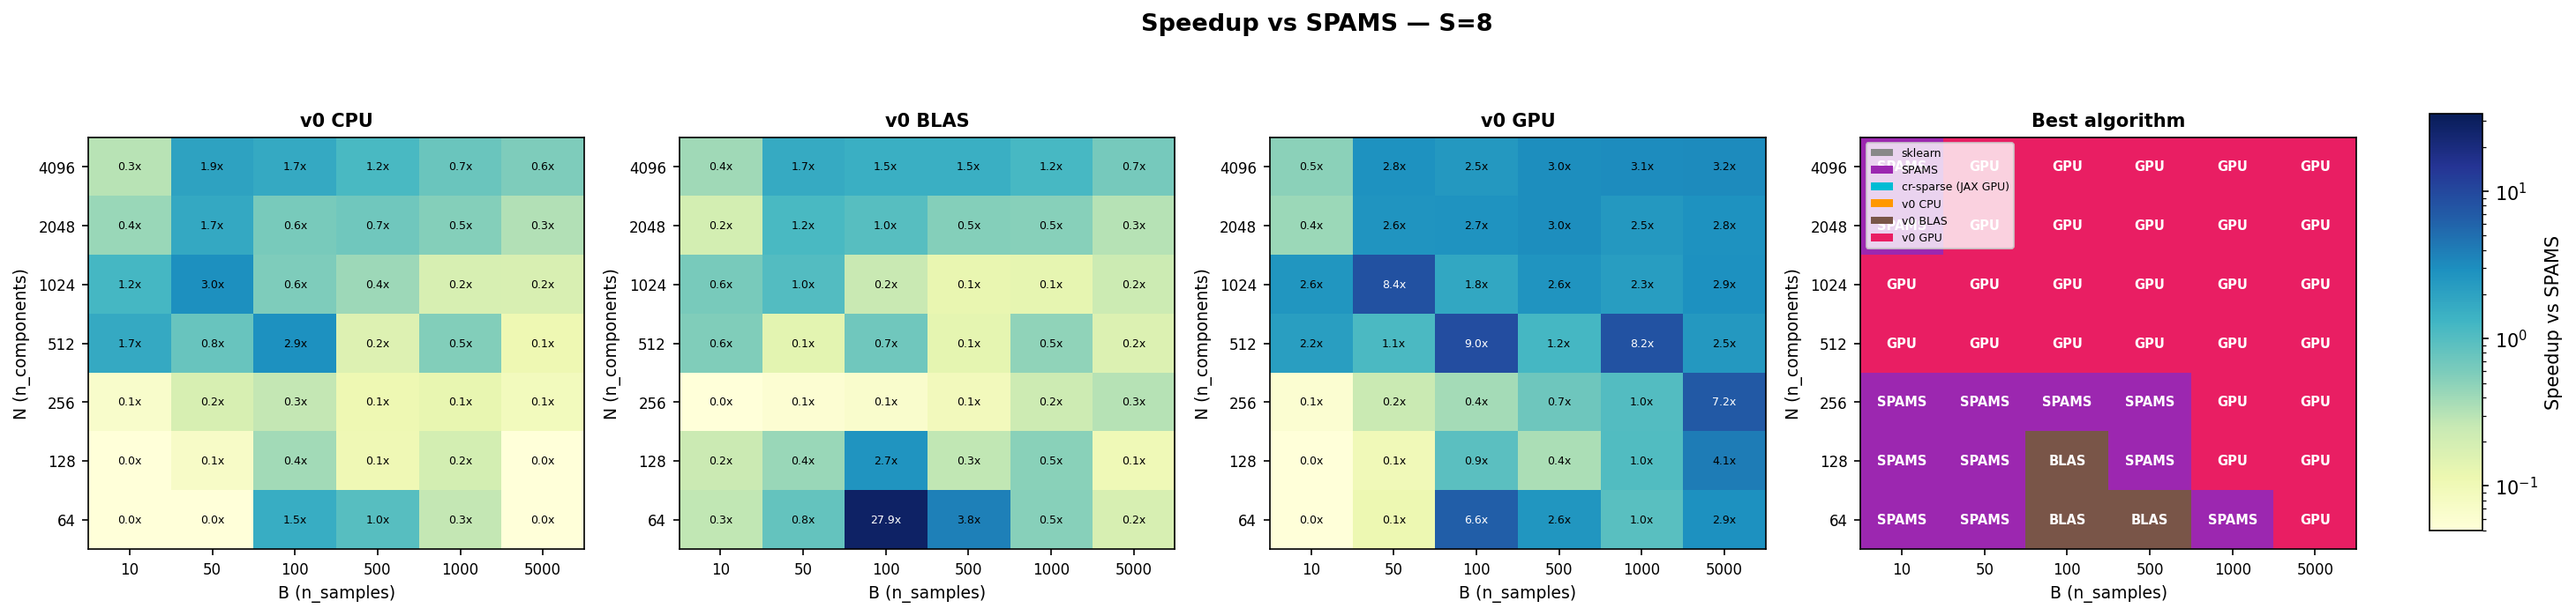
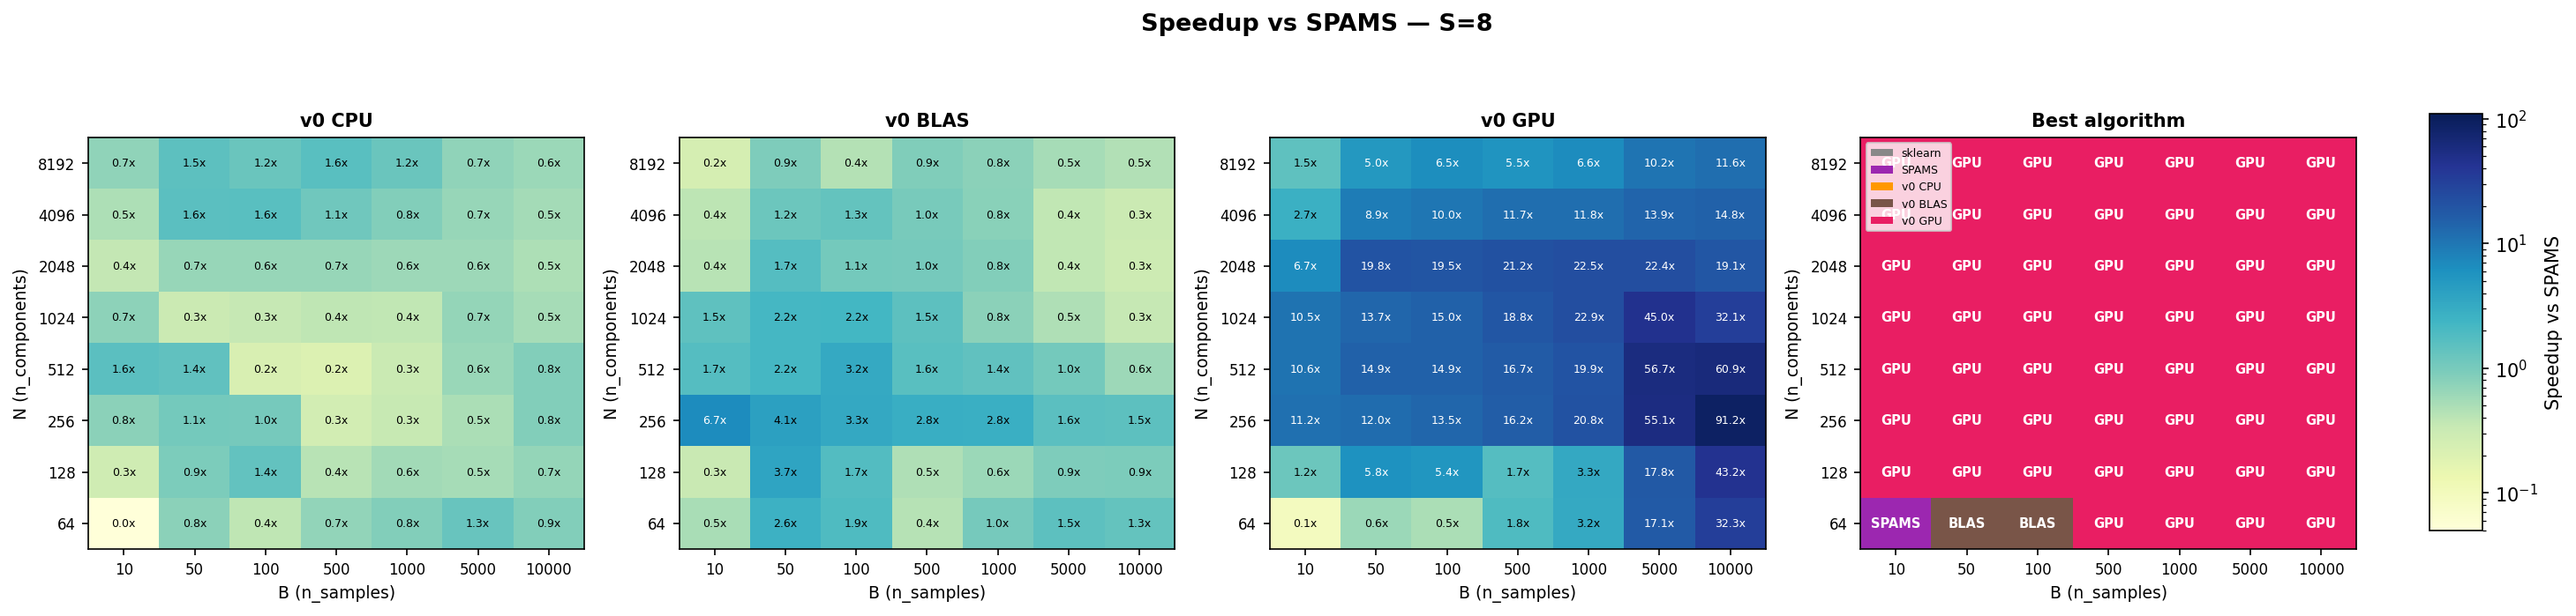
AWS g7e results

diff --git a/benchmarks/benchmarks.py b/benchmarks/benchmarks.py
@@ -292,25 +292,25 @@ def run_paper_benchmarks(run_gpu=True):
     print(f"\n{'='*60}")
     print("Paper Fig 1 Summary (time in seconds)")
     print(f"{'='*60}")
-    header = f"{'M':>6} | {'sklearn':>8} | {'SPAMS':>8} | {'naive':>8} | {'v0 CPU':>8}"
+    header = f"{'M':>6} | {'sklearn':>8} | {'SPAMS':>8} | {'v0 CPU':>8} | {'v0 BLAS':>8}"
     if run_gpu and HAS_CUDA:
-        header += f" | {'naive GPU':>9} | {'v0 GPU':>8}"
+        header += f" | {'v0 GPU':>8}"
     print(header)
     print("-" * len(header))
     for M, res in all_results.items():
         spams_col = f"{res['spams']['time']:>8.3f}" if 'spams' in res else "     N/A"
-        row = f"{M:>6} | {res['sklearn']['time']:>8.3f} | {spams_col} | {res['naive_cpu']['time']:>8.3f} | {res['v0_cpu']['time']:>8.3f}"
+        v0_blas_col = f"{res['v0_blas']['time']:>8.3f}" if 'v0_blas' in res else "     N/A"
+        row = f"{M:>6} | {res['sklearn']['time']:>8.3f} | {spams_col} | {res['v0_cpu']['time']:>8.3f} | {v0_blas_col}"
         if run_gpu and HAS_CUDA:
-            naive_gpu = f"{res['naive_gpu']['time']:>9.3f}" if 'naive_gpu' in res else "      OOM"
             v0_gpu = f"{res['v0_gpu']['time']:>8.3f}" if 'v0_gpu' in res else "     OOM"
-            row += f" | {naive_gpu} | {v0_gpu}"
+            row += f" | {v0_gpu}"
         print(row)
 
     return all_results
 
 
-SWEEP_N_VALUES = [64, 128, 256, 512, 1024, 2048, 4096]
-SWEEP_B_VALUES = [10, 50, 100, 500, 1000, 5000]
+SWEEP_N_VALUES = [64, 128, 256, 512, 1024, 2048, 4096, 8192]
+SWEEP_B_VALUES = [10, 50, 100, 500, 1000, 5000, 10000]
 SWEEP_S_VALUES = [8, 32, 64]
 
 

diff --git a/benchmarks/plot_results.py b/benchmarks/plot_results.py
@@ -17,13 +17,13 @@ if not sweep_files:
 with open(sweep_files[-1]) as f:
     sweep = json.load(f)
 
-# ── Data for panel 3: realistic benchmarks (from benchmark_20260326_115650.txt, E-features enabled) ──
+# ── Data for panel 3: realistic benchmarks (AWS g7e.8xlarge — Xeon 8559C + RTX PRO 6000 Blackwell 102GB) ──
 
 # (label, sklearn_sps, spams_sps, v0_cpu_sps, v0_blas_sps, v0_gpu_sps)
 realistic = [
-    ('Image patches\n256×1024, S=32',  533, 23106, 2227, 1823, 22633),
-    ('Face recog.\n8064×1207, S=30',   482,  1274,  594, 1470,  4285),
-    ('Audio\n512×2048, S=64',          103,  4490,  504,  378,  None),  # GPU OOM
+    ('Image patches\n256×1024, S=32',  594,  7139, 3257, 1811, 183904),
+    ('Face recog.\n8064×1207, S=30',   352,  1717, 1408, 1731,  25158),
+    ('Audio\n512×2048, S=64',          207,  2359,  926,  295,  28336),
 ]
 
 COLORS = {
@@ -42,7 +42,7 @@ LABELS = {
 }
 
 fig, axes = plt.subplots(1, 3, figsize=(16, 5))
-fig.suptitle('OMP Benchmark Results — Intel Core Ultra 9 185H + RTX 4060 Laptop',
+fig.suptitle('OMP Benchmark Results — Xeon 8559C + RTX PRO 6000 Blackwell (AWS g7e.8xlarge)',
              fontsize=13, fontweight='bold', y=1.01)
 
 # ── Panel 1: GPU vs SPAMS speedup heatmap (S=32, from sweep) ────────────────

diff --git a/README.md b/README.md
@@ -2,30 +2,30 @@
 
 **Paper:** [Efficient Batched CPU/GPU Implementation of Orthogonal Matching Pursuit for Python](https://arxiv.org/abs/2407.06434)
 
-Batched implementation of Orthogonal Matching Pursuit (OMP) using BLAS (CPU) and PyTorch (GPU). **The fastest GPU implementation of OMP** — matches or beats SPAMS (C++) while being pure Python/PyTorch. **3-5x faster than scikit-learn** on CPU, **up to 42x on GPU**.
+Batched implementation of Orthogonal Matching Pursuit (OMP) using BLAS (CPU) and PyTorch (GPU). **The fastest GPU implementation of OMP** — up to **26x faster than SPAMS** (C++) while being pure Python/PyTorch. **Up to 310x faster than scikit-learn** on GPU.
 
 
 ![Benchmark plot](benchmarks/results/benchmark_plot.png)
 
 ### Speedup vs scikit-learn
 
-| Config | Best CPU | GPU | SPAMS (C++) |
-|--------|----------|-----|-------------|
-| Image patches (256×1024, S=32, B=5K) | 4.2x | **42x** | **43x** |
-| Face recognition (8064×1207, S=30, B=1.2K) | 3.1x† | **8.9x** | 2.6x |
-| Audio (512×2048, S=64, B=5K) | 4.9x | OOM | **44x** |
+| Config | Best CPU | GPU | SPAMS (C++) | GPU vs SPAMS |
+|--------|----------|-----|-------------|-------------|
+| Image patches (256×1024, S=32, B=5K) | 5.5x | **310x** | 12.0x | **25.8x faster** |
+| Face recognition (8064×1207, S=30, B=1.2K) | 4.9x† | **71x** | 4.9x | **14.6x faster** |
+| Audio (512×2048, S=64, B=5K) | 4.5x | **137x** | 11.4x | **12.0x faster** |
 
-† v0_blas (inverse Cholesky + Cython BLAS). Image patches: GPU and SPAMS are tied (22.6K vs 23.1K samples/sec). Face recognition: GPU is 3.4x faster than SPAMS.
+† v0_blas (inverse Cholesky + Cython BLAS) wins on CPU for face recognition due to large n_features (8064).
 
-*Hardware: Intel Core Ultra 9 185H, NVIDIA RTX 4060 Laptop (8 GB)*
+*Hardware: Intel Xeon 8559C, NVIDIA RTX PRO 6000 Blackwell 102 GB (AWS g7e.8xlarge)*
 
 **There is no other production-ready GPU implementation of OMP.** Existing alternatives either crash on overcomplete dictionaries (cr-sparse) or are CPU-only (sklearn, SPAMS). Batched OMP is the fastest OMP implementation available when you have a GPU.
 
 ### When to use batched-omp
 
-- **Have a GPU?** Use batched-omp — there is nothing faster. Beats SPAMS (C++) on face recognition by 3.4x, ties on image patches
-- **CPU only, want a sklearn drop-in?** 3-5x faster, same API, no C dependencies
-- **CPU only, maximum speed?** [SPAMS](https://thoth.inrialpes.fr/people/mairal/spams/) is faster (C++ with OpenMP) but harder to install
+- **Have a GPU?** Use batched-omp — there is nothing faster. **12-26x faster than SPAMS** (C++) across all realistic configs
+- **CPU only, want a sklearn drop-in?** 4-5x faster, same API, no C dependencies
+- **CPU only, maximum speed?** [SPAMS](https://thoth.inrialpes.fr/people/mairal/spams/) is faster (C++ with OpenMP) but harder to install and requires Python ≤3.11 (depends on deprecated `numpy.distutils`)
 - **Few signals or small problems?** sklearn is fine — batching helps most with hundreds+ of signals
 
 ## Installation

diff --git a/CLAUDE.md b/CLAUDE.md
@@ -70,7 +70,7 @@ python benchmarks/plot_results.py
 ### What benchmarks run
 
 - **Realistic configs**: image_patches (256×1024), face_recognition (8064×1207), audio (512×2048)
-- **Sweep**: N=[64..4096], B=[10..5000], S=[8,32,64], M=N/4. Algorithms: sklearn, SPAMS, v0 CPU, v0 BLAS, v0 GPU. GPU runs 3 times for variance estimation.
+- **Sweep**: N=[64..8192], B=[10..10000], S=[8,32,64], M=N/4, 147 valid cells. Algorithms: sklearn, SPAMS, v0 CPU, v0 BLAS, v0 GPU. GPU runs 3 times for variance estimation.
 - **Ablation**: 4 configs × 3 axes (batching, Gram precompute, inverse Cholesky) on CPU and GPU.
 - **Naive algorithm was removed from benchmarks** — it's strictly slower than v0 on all configs.
 
@@ -80,17 +80,17 @@ python benchmarks/plot_results.py
 - **SPAMS**: C++ with OpenMP (`pip install spams`). Fastest CPU implementation. 3 warmup + 3 timed runs.
 - **cr-sparse**: JAX GPU. Crashes on overcomplete dictionaries (our sweep is 4x overcomplete). Has numerical issues (orthogonality violations up to 3.6 vs our 1e-15). Not a serious competitor.
 
-### Current results (laptop, CPU E-features ENABLED = real-world config)
+### Current results (AWS g7e.8xlarge)
 
-Hardware: Intel Core Ultra 9 185H (6P+8E cores), NVIDIA RTX 4060 Laptop (8 GB VRAM)
+Hardware: Intel Xeon Platinum 8559C, NVIDIA RTX PRO 6000 Blackwell (102 GB VRAM)
 
 | Config | sklearn | SPAMS | Best CPU | GPU | GPU vs SPAMS |
 |--------|---------|-------|----------|-----|-------------|
-| Image patches | 533 sps | 23,106 | 2,227 (v0) | 22,633 | tied |
-| Face recognition | 482 sps | 1,274 | 1,470 (BLAS) | 4,285 | **3.4x faster** |
-| Audio | 103 sps | 4,490 | 504 (v0) | OOM | — |
+| Image patches | 594 sps | 7,139 | 3,257 (v0) | 183,904 | **25.8x faster** |
+| Face recognition | 352 sps | 1,717 | 1,731 (BLAS) | 25,158 | **14.6x faster** |
+| Audio | 207 sps | 2,359 | 926 (v0) | 28,336 | **12.0x faster** |
 
-Sweep: GPU wins 67/108 cells (62%) vs SPAMS. Wins 89% when N >= 2048.
+Sweep: GPU wins 108/108 cells (100%) vs SPAMS. No OOM on any config.
 
 ## Next task: AWS GPU benchmarks
 
